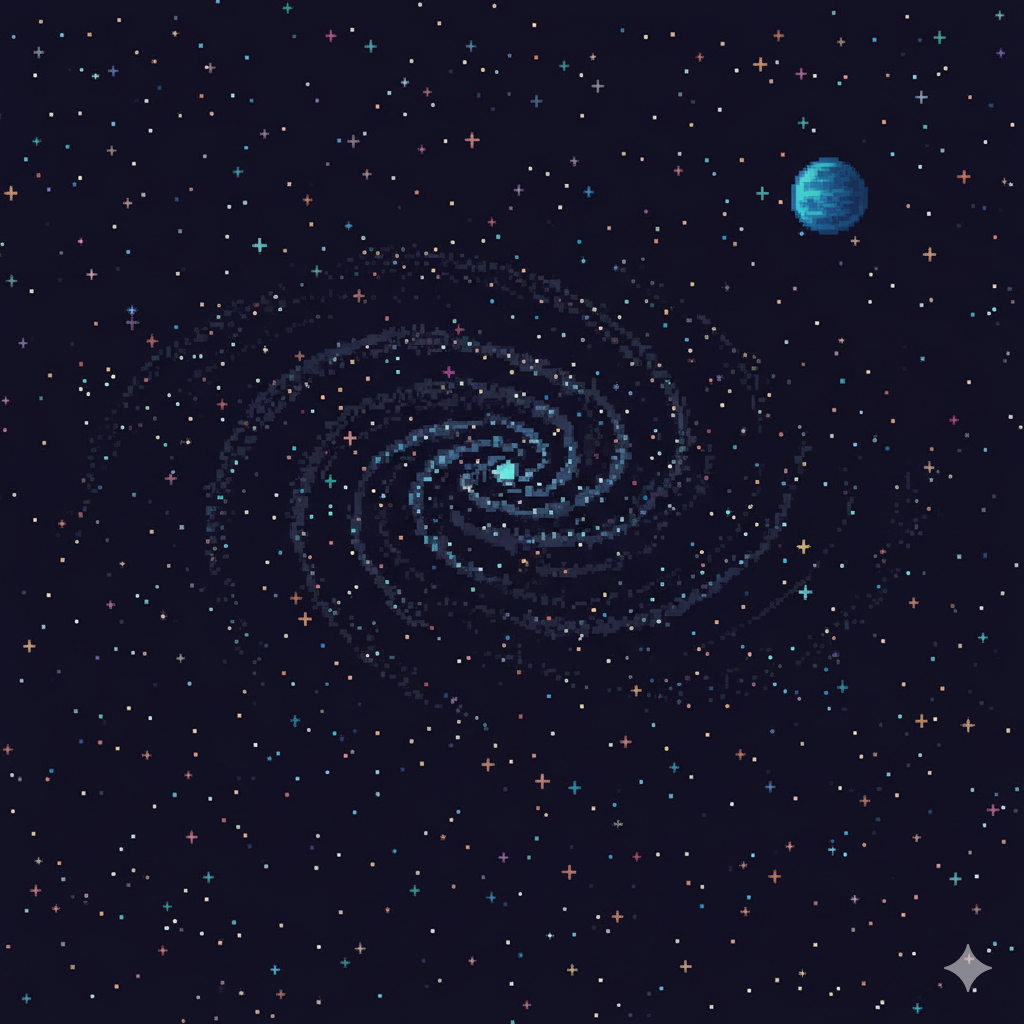
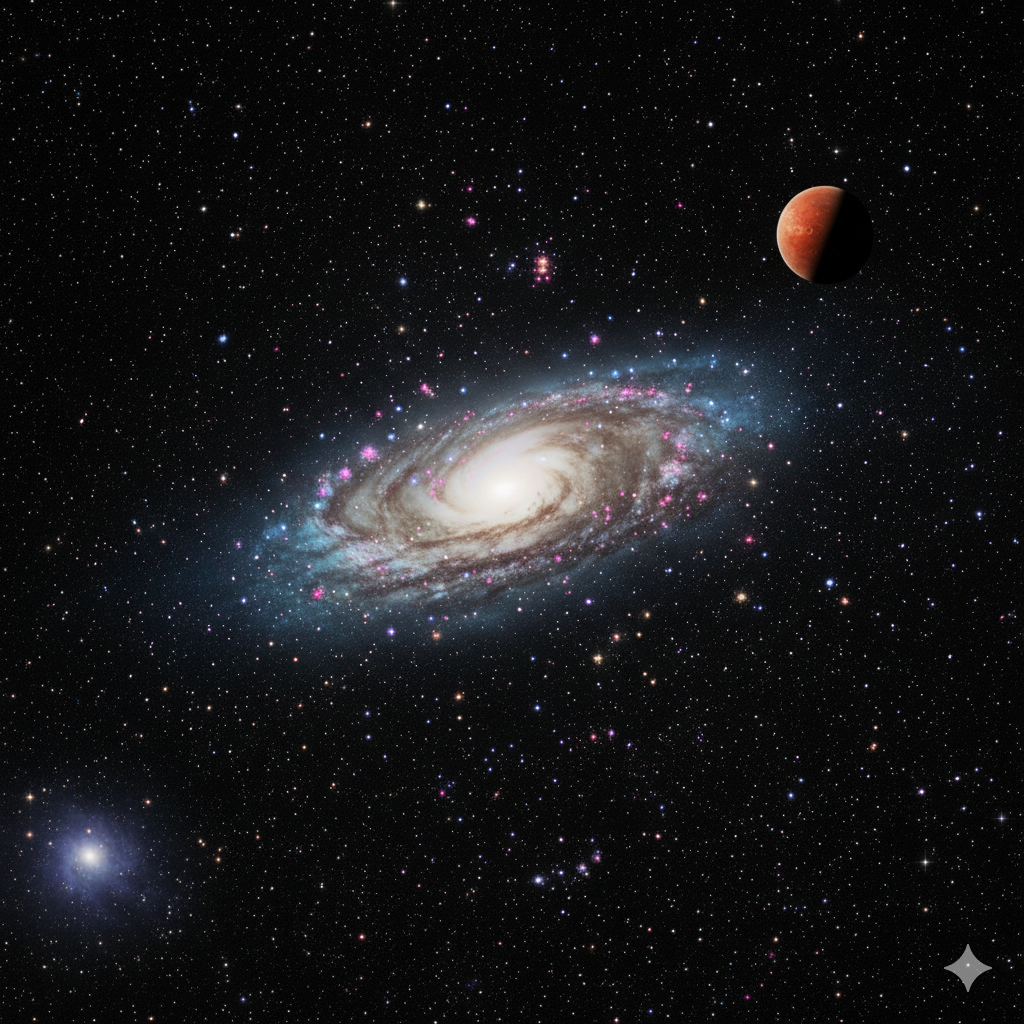
comenzado el css del juego

diff --git a/frontend/vue-project/src/components/joc.vue b/frontend/vue-project/src/components/joc.vue
@@ -1,17 +1,19 @@
 <template>
-  <div class="main-background">
-    <div class="game-container">
-      <component
-        :is="currentGameModeComponent"
-        :words="words"
-        :wordsLoaded="wordsLoaded"
-        :playerName="nombreJugador"
-        :jugadores="jugadores"
-        :roomState="roomState"
-        :gameMode="props.gameMode"
-        :roomId="props.roomId"
-        @done="onGameOver"
-      />
+  <div class="game-background">
+    <div class="centra-console-panel">
+      <div class="game-container hologram">
+        <component
+          :is="currentGameModeComponent"
+          :words="words"
+          :wordsLoaded="wordsLoaded"
+          :playerName="nombreJugador"
+          :jugadores="jugadores"
+          :roomState="roomState"
+          :gameMode="props.gameMode"
+          :roomId="props.roomId"
+          @done="onGameOver"
+        />
+      </div>
     </div>
   </div>
 </template>
@@ -55,4 +57,4 @@ const onGameOver = (results) => {
 };
 </script>
 
-<style src="../styles/stylesJoc.css"></style>
+<style src="../styles/styleJoc.css"></style>

diff --git a/frontend/vue-project/src/styles/styleJoc.css b/frontend/vue-project/src/styles/styleJoc.css
@@ -1,0 +1,30 @@
+html, body {
+    margin: 0;
+    padding: 0;
+    height: 100%;
+    width: 100%;
+    overflow: hidden;
+}
+
+div.game-background { 
+    background-image: url('../img/espacio.png'); 
+    background-size: cover;
+    background-position: center;
+    height: 100vh;
+    width: 100vw; 
+    overflow: hidden;
+    position: relative; 
+}
+
+.centra-console-panel { 
+    overflow: visible;
+    position: absolute;
+    left: 50%;
+    top: 70%;
+    transform: translateX(-50%); 
+    bottom: 5vh; 
+    width: 60%; 
+    height: 10%;
+    perspective: 1000px; 
+    perspective-origin: center top; 
+}
